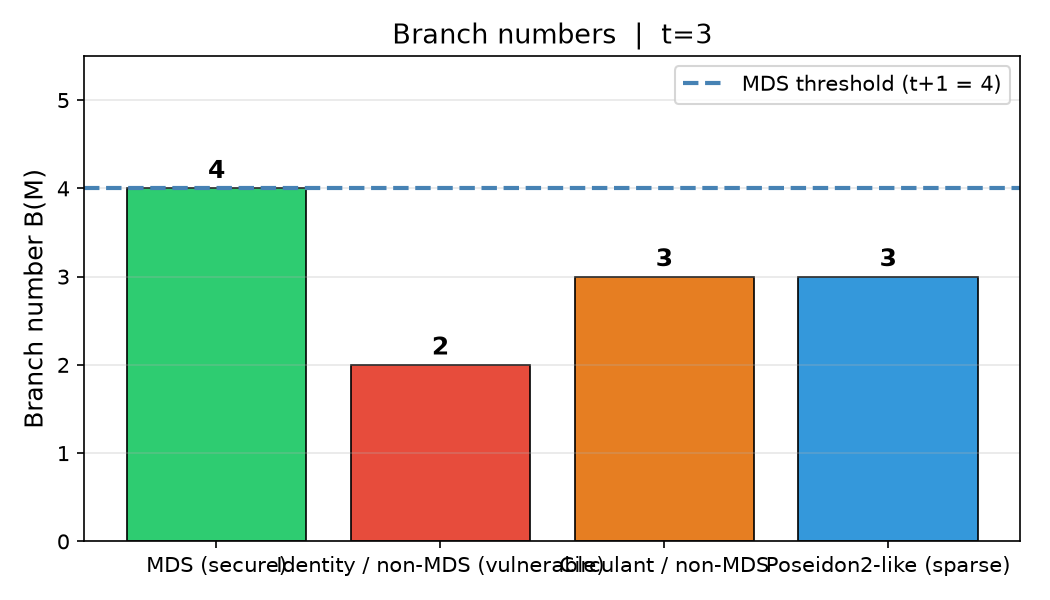
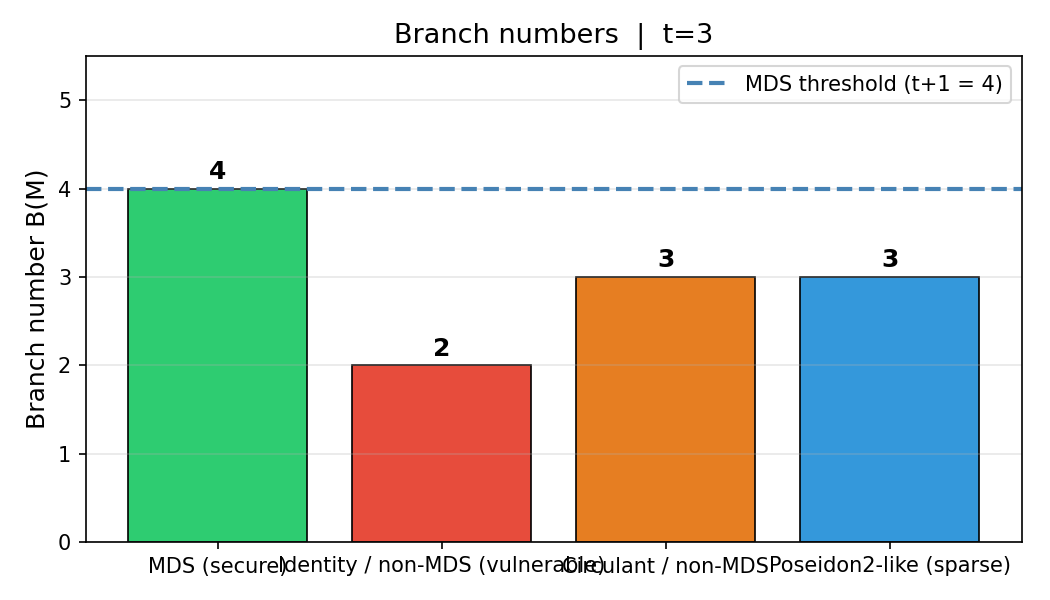
renew the plot

diff --git a/plot.py b/plot.py
@@ -68,7 +68,7 @@ def plot_diffusion(t=3, r_p=10, alpha=5, delta_val=4, matrices=None, save=None):
 
     fig.tight_layout()
     if save:
-        fig.savefig(save, dpi=150)
+        fig.savefig(save, dpi=600)
         print(f"Saved: {save}")
     else:
         plt.show()
@@ -90,7 +90,7 @@ def plot_degree(t=3, r_p=10, alpha=5, matrices=None, save=None):
         "poseidon2": dict(linestyle=':',  marker='D', linewidth=2.5, markersize=6, zorder=7),
     }
 
-    fig, ax = plt.subplots(figsize=(9, 5))
+    fig, ax = plt.subplots(figsize=(5, 3))
     for name, history in data.items():
         rounds = [h[0] for h in history]
         maxdeg = [max(h[2], 0.8) for h in history]  
@@ -109,7 +109,7 @@ def plot_degree(t=3, r_p=10, alpha=5, matrices=None, save=None):
 
     fig.tight_layout()
     if save:
-        fig.savefig(save, dpi=300, bbox_inches='tight')
+        fig.savefig(save, dpi=600, bbox_inches='tight')
         print(f"Saved: {save}")
     else:
         plt.show()
